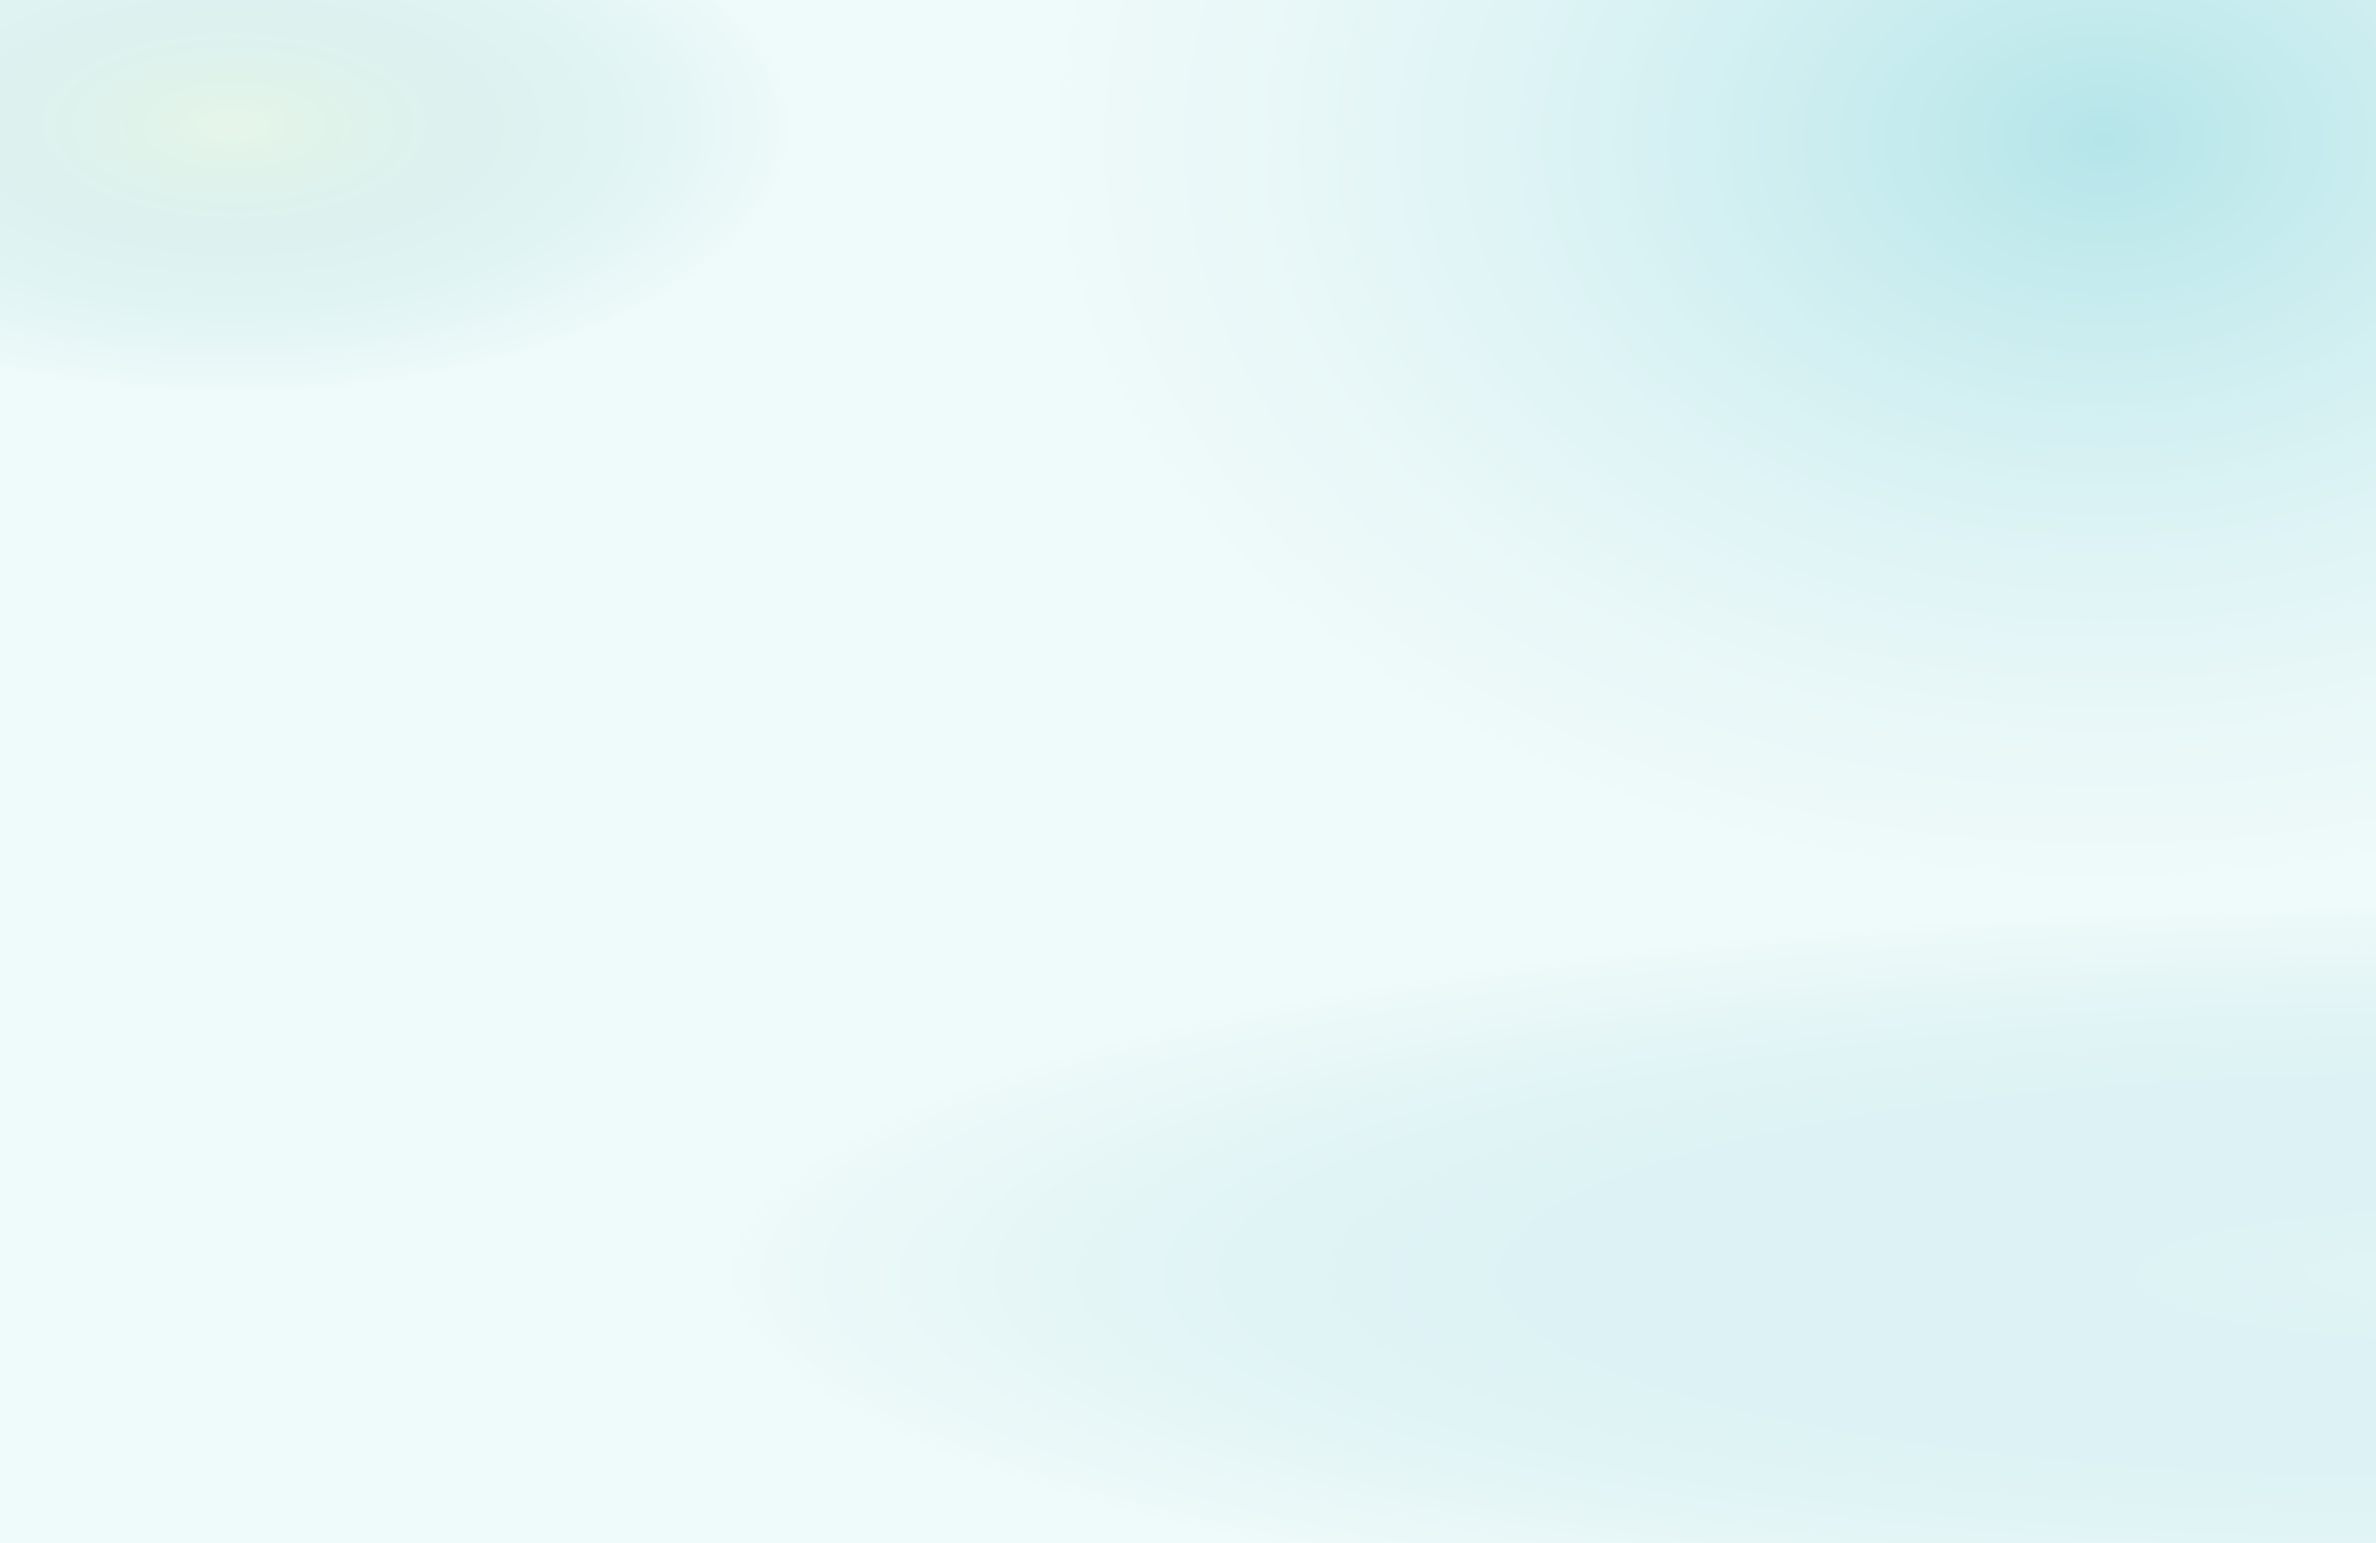
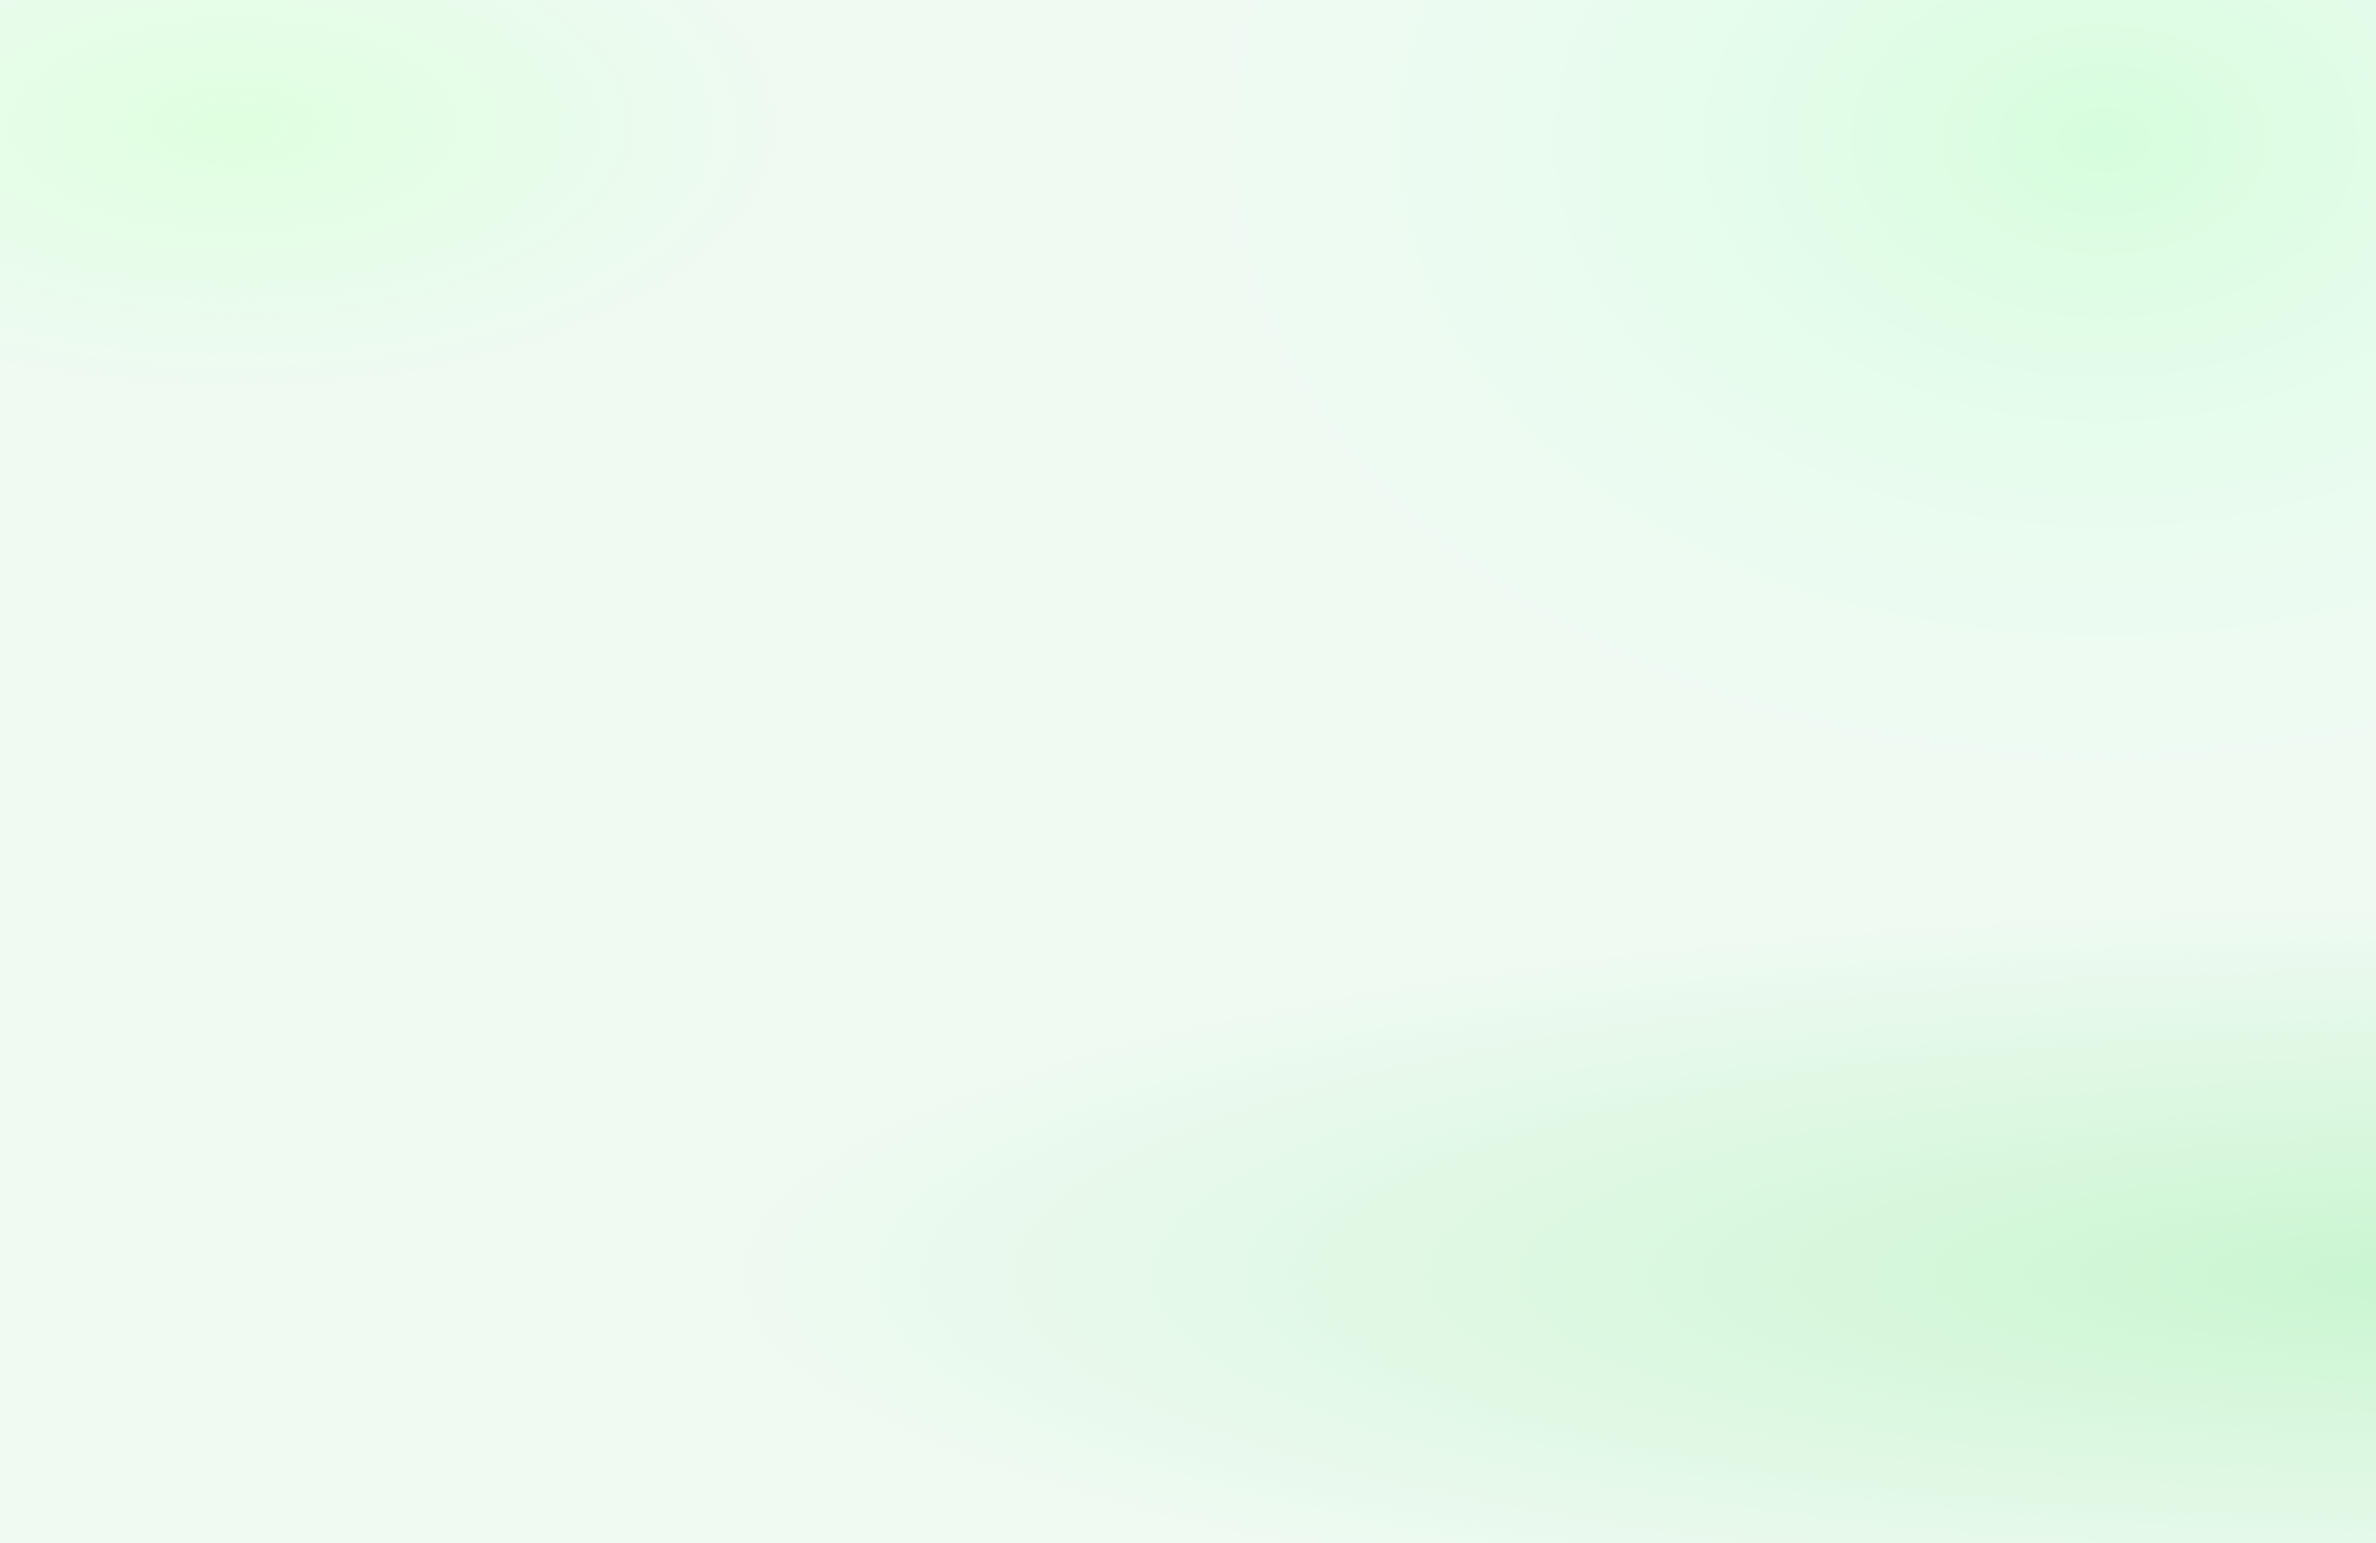
Theme Change 💚✅

Changed region(s): [[0.7771, 0.0, 0.9947, 0.2174], [0.7771, 0.7454, 1.0, 0.9007]]

diff --git a/packages/frontend/pages/index.tsx b/packages/frontend/pages/index.tsx
@@ -56,7 +56,7 @@ const Home: NextPage = () => {
                         >
                             <path
                                 d="M-262.426 18.3522C-238.26 14.7084 -214.082 10.9651 -189.902 7.43887C-152.8 2.02838 -121.961 1.55612 -90.8826 3.57983C-48.7902 6.32075 -12.716 13.429 17.4715 21.6974C56.0859 32.2739 63.148 58.9917 131.736 54.1137"
-                                stroke="#4292A0"
+                                stroke="#42A051"
                                 stroke-width="3"
                                 stroke-linecap="round"
                                 stroke-linejoin="round"
@@ -75,7 +75,7 @@ const Home: NextPage = () => {
                         >
                             <path
                                 d="M2.00256 62.6756C21.425 64.0131 40.8612 65.4487 60.2894 66.668C90.0992 68.5388 114.673 66.0904 139.312 61.1368C172.683 54.4277 175.749 35.9735 212.932 18.8304C250.115 1.68738 275.234 1.93659 334.818 2.52774"
-                                stroke="#4292A0"
+                                stroke="#42A051"
                                 stroke-width="3"
                                 stroke-linecap="round"
                                 stroke-linejoin="round"
@@ -97,7 +97,7 @@ const Home: NextPage = () => {
                         >
                             <path
                                 d="M2.00256 6.03331C18.6155 4.88923 35.2394 3.64734 51.8584 2.62151C77.3581 1.04752 98.4187 3.73784 119.559 8.93234C148.192 15.9678 172.572 26.7255 192.896 38.0326C218.894 52.4961 242.277 68.0914 269.789 81.9436"
-                                stroke="#4292A0"
+                                stroke="#42A051"
                                 stroke-width="3"
                                 stroke-linecap="round"
                                 stroke-linejoin="round"

diff --git a/packages/frontend/components/NavBar.tsx b/packages/frontend/components/NavBar.tsx
@@ -28,8 +28,6 @@ const NavBar = (): JSX.Element => {
               color={"brand.600"}
               onClick={handleGoogleSignIn}
               _hover={{
-                boxShadow: "3px 3px 0px #CEECEF !important",
-                backgroundColor: "brand.200",
                 transform: "translate(3px, 4px)",
               }}
             >
@@ -56,8 +54,6 @@ const NavBar = (): JSX.Element => {
             colorScheme={"white"}
             color={"brand.600"}
             _hover={{
-              boxShadow: "3px 3px 0px #CEECEF !important",
-              backgroundColor: "brand.200",
               transform: "translate(3px, 4px)",
             }}
           >

diff --git a/packages/frontend/theme.ts b/packages/frontend/theme.ts
@@ -7,16 +7,16 @@ export default extendTheme({
   },
   colors: {
     brand: {
-      50: "#e8ffff",
-      100: "#EFFAFA",
-      200: "#CEECEF",
+      50: "#EFFAF2",
+      100: "#C8EDCE",
+      200: "#95E098",
       300: "#95DAE0",
-      400: "#76CAD4",
-      500: "#58BAC8",
-      600: "#4292A0",
-      700: "#1A434F",
-      800: "#1A434F",
-      900: "#1A434F",
+      400: "#76D47F",
+      500: "#58C85C",
+      600: "#42A051",
+      700: "#1A4F1F",
+      800: "#1A4F1F",
+      900: "#1A4F1F",
     },
   },
   fonts: {

diff --git a/packages/frontend/components/Layout/ExampleBox.tsx b/packages/frontend/components/Layout/ExampleBox.tsx
@@ -9,8 +9,8 @@ const ExampleBox = (): JSX.Element => (
             left:"775px",
             width: "519px",
             height: "325px",
-            borderColor: "brand.500",
-            border: "5px solid #58BAC8",
+            borderColor: "brand.600",
+            border: "5px solid #58C85C",
             boxShadow: "6px 6px 0px #CEECEF",
             borderRadius: "15px",
             transform: "rotate(8.72deg)",
